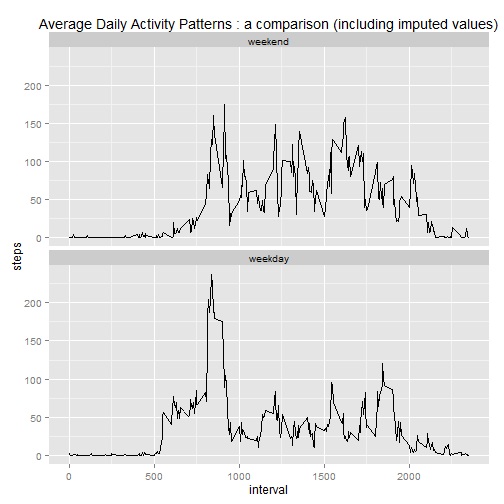
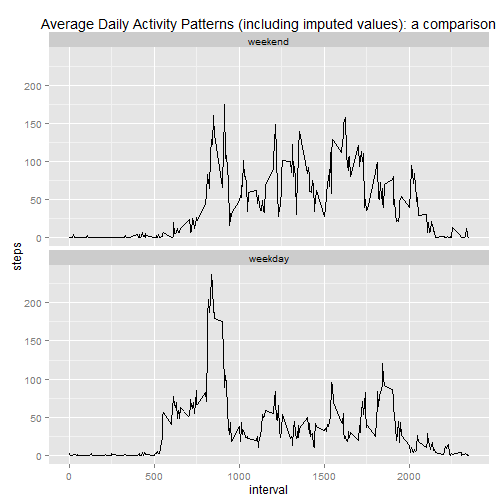
fixed typos

Changed region(s): [[0.0595, 0.0298, 1.0, 0.0595]]

diff --git a/PA1_template.html b/PA1_template.html
@@ -349,7 +349,8 @@ stepsByDate_missing
 
 <pre><code class="r"># Distribution of missing values in original dataset by weekday
 day &lt;- weekdays(df$date)
-day &lt;- factor(day, levels = c(&quot;Monday&quot;, &quot;Tuesday&quot;, &quot;Wednesday&quot;, &quot;Thursday&quot;, &quot;Friday&quot;, &quot;Saturday&quot;, &quot;Sunday&quot;))
+day &lt;- factor(day, 
+              levels = c(&quot;Monday&quot;, &quot;Tuesday&quot;, &quot;Wednesday&quot;, &quot;Thursday&quot;, &quot;Friday&quot;, &quot;Saturday&quot;, &quot;Sunday&quot;))
 df_missingByDay &lt;- tapply(df$steps, day, f &lt;- function(x){sum(is.na(x))})
 df_missingByDay
 </code></pre>
@@ -368,7 +369,8 @@ df_missingByDay
 
 <pre><code class="r"># Create new dataset containing original and imputed values
 df$day &lt;- weekdays(df$date)
-df$day &lt;- factor(day, levels = c(&quot;Monday&quot;, &quot;Tuesday&quot;, &quot;Wednesday&quot;, &quot;Thursday&quot;, &quot;Friday&quot;, &quot;Saturday&quot;, &quot;Sunday&quot;))
+df$day &lt;- factor(day, 
+                 levels = c(&quot;Monday&quot;, &quot;Tuesday&quot;, &quot;Wednesday&quot;, &quot;Thursday&quot;, &quot;Friday&quot;, &quot;Saturday&quot;, &quot;Sunday&quot;))
 avgStepsByDayInt &lt;- tapply(df$steps, list(df$day, df$interval), mean, na.rm = TRUE)
 avgStepsByDayInt &lt;- melt(avgStepsByDayInt, varnames = c(&quot;day&quot;, &quot;interval&quot;), 
                          value.name = &quot;meanSteps&quot;)
@@ -399,8 +401,8 @@ mean2 &lt;- round(mean(imputeStepsByDate$steps, na.rm = TRUE), 2)
 median2 &lt;- median(imputeStepsByDate$steps, na.rm = TRUE)
 </code></pre>
 
-<p>The mean total number of steps per day is 10821.21.<br/>
-The median total number of steps per day is 11015.   </p>
+<p>The mean total number of steps per day (including imputed values) is 10821.21.<br/>
+The median total number of steps per day (including imputed values) is 11015.   </p>
 
 <p>The use of imputed values has a noticeable impact the averages calculated, increasing both mean and median compared to earlier calculations. The median is now greater than the mean and the difference between the two averages has increased as well.</p>
 
@@ -408,7 +410,7 @@ The median total number of steps per day is 11015.   </p>
 
 <h3>Part 1</h3>
 
-<p>The imputed values dataset is modified to include a variable for the part of the week (weekend or weekday) into the observations fall.</p>
+<p>The imputed values dataset is modified to include a variable for the kind of day (weekend or weekday) on which the observations fall.</p>
 
 <pre><code class="r"># Use &#39;day&#39; values to determine the part of the week 
 imputeDf$dayType &lt;- ifelse(imputeDf$day == &quot;Saturday&quot; | imputeDf$day == &quot;Sunday&quot;, &quot;weekend&quot;, &quot;weekday&quot;)
@@ -430,13 +432,13 @@ imputeAvgStepsByInt &lt;- melt(imputeAvgStepsByInt,
 p4 &lt;- ggplot(imputeAvgStepsByInt, aes(x = interval, y = steps)) + 
   geom_line() + 
   facet_wrap(~dayType, nrow = 2) + 
-  labs(title = &quot;Average Daily Activity Patterns : a comparison (including imputed values)&quot;)
+  labs(title = &quot;Average Daily Activity Patterns (including imputed values): a comparison&quot;)
 p4
 </code></pre>
 
[2 lines of base64/hex data omitted]
 
-<p>There some noticeable differences between weekend and weekday activity patterns.</p>
+<p>There are some noticeable differences between weekend and weekday activity patterns.</p>
 
 </body>
 

diff --git a/PA1_template.md b/PA1_template.md
@@ -191,7 +191,8 @@ stepsByDate_missing
 ```r
 # Distribution of missing values in original dataset by weekday
 day <- weekdays(df$date)
-day <- factor(day, levels = c("Monday", "Tuesday", "Wednesday", "Thursday", "Friday", "Saturday", "Sunday"))
+day <- factor(day, 
+              levels = c("Monday", "Tuesday", "Wednesday", "Thursday", "Friday", "Saturday", "Sunday"))
 df_missingByDay <- tapply(df$steps, day, f <- function(x){sum(is.na(x))})
 df_missingByDay
 ```
@@ -215,7 +216,8 @@ The new dataset is created based on the above strategy, containing all of the or
 ```r
 # Create new dataset containing original and imputed values
 df$day <- weekdays(df$date)
-df$day <- factor(day, levels = c("Monday", "Tuesday", "Wednesday", "Thursday", "Friday", "Saturday", "Sunday"))
+df$day <- factor(day, 
+                 levels = c("Monday", "Tuesday", "Wednesday", "Thursday", "Friday", "Saturday", "Sunday"))
 avgStepsByDayInt <- tapply(df$steps, list(df$day, df$interval), mean, na.rm = TRUE)
 avgStepsByDayInt <- melt(avgStepsByDayInt, varnames = c("day", "interval"), 
                          value.name = "meanSteps")
@@ -255,8 +257,8 @@ mean2 <- round(mean(imputeStepsByDate$steps, na.rm = TRUE), 2)
 median2 <- median(imputeStepsByDate$steps, na.rm = TRUE)
 ```
 
-The mean total number of steps per day is 10821.21.   
-The median total number of steps per day is 11015.   
+The mean total number of steps per day (including imputed values) is 10821.21.   
+The median total number of steps per day (including imputed values) is 11015.   
 
 The use of imputed values has a noticeable impact the averages calculated, increasing both mean and median compared to earlier calculations. The median is now greater than the mean and the difference between the two averages has increased as well.
 
@@ -266,7 +268,7 @@ The use of imputed values has a noticeable impact the averages calculated, incre
 
 ### Part 1  
 
-The imputed values dataset is modified to include a variable for the part of the week (weekend or weekday) into the observations fall.
+The imputed values dataset is modified to include a variable for the kind of day (weekend or weekday) on which the observations fall.
 
 
 ```r
@@ -295,11 +297,11 @@ imputeAvgStepsByInt <- melt(imputeAvgStepsByInt,
 p4 <- ggplot(imputeAvgStepsByInt, aes(x = interval, y = steps)) + 
   geom_line() + 
   facet_wrap(~dayType, nrow = 2) + 
-  labs(title = "Average Daily Activity Patterns : a comparison (including imputed values)")
+  labs(title = "Average Daily Activity Patterns (including imputed values): a comparison")
 p4
 ```
 
 ![plot of chunk plot4](figure/plot4-1.png) 
 
 
-There some noticeable differences between weekend and weekday activity patterns.
+There are some noticeable differences between weekend and weekday activity patterns.
